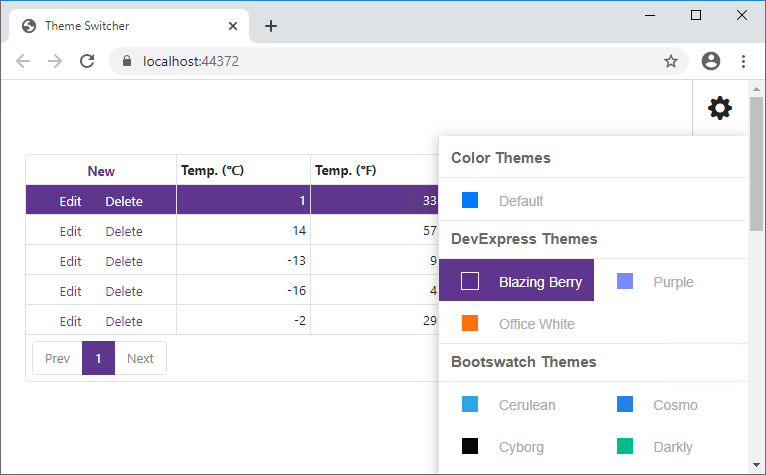
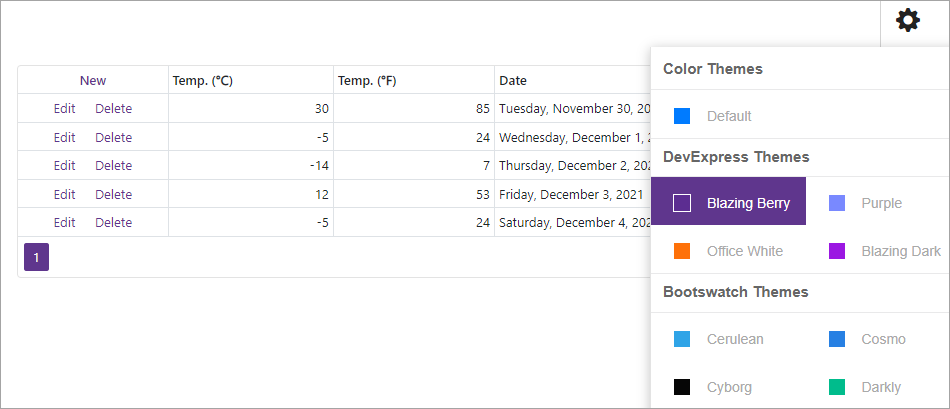
update the description

diff --git a/Readme.md b/Readme.md
@@ -5,31 +5,32 @@
 <!-- default badges end -->
 # How to implement a Theme Switcher in Blazor applications
 
-This example demonstrates how to create a Theme Switcher as in [DevExpress Blazor Demos](https://demos.devexpress.com/blazor/) and apply the selected theme to an application dynamically. The example contains solutions both for Blazor Server and Blazor WebAssembly. Note that these solutions target .NET 5.0.
+This example demonstrates how to create a Theme Switcher as in [DevExpress Blazor Demos](https://demos.devexpress.com/blazor/) and apply the selected theme to an application dynamically. The example contains solutions both for Blazor Server and Blazor WebAssembly. Note that these solutions target .NET 6.0.
 
-This Theme Switcher offers the standard Bootstrap theme, [3 DevExpress Bootstrap themes](https://github.com/DevExpress/bootstrap-themes), and [21 Bootstwatch themes](https://bootswatch.com/). 
+![Blazor - Theme Switcher](images/blazor-theme-switcher.png)
+
+This Theme Switcher offers the standard Bootstrap theme, [4 DevExpress Bootstrap themes](https://github.com/DevExpress/bootstrap-themes), and [21 Bootstwatch themes](https://bootswatch.com/). 
 
 Refer to the [Themes](https://docs.devexpress.com/Blazor/401523/common-concepts/themes#implement-a-theme-switcher) documentation topic for more information.
 
-![](images/blazor-theme-switcher.png)
-
-*Files to look at*:
+<!-- default file list -->
+## Files to look at
 
 **Blazor Server**
-* [ThemeSwitcher.razor](./CS/BlazorServer/BlazorAppThemes/Shared/ThemeSwitcher.razor)
-* [ThemeSwitcher.razor.cs](./CS/BlazorServer/BlazorAppThemes/Shared/ThemeSwitcher.razor.cs)
+* [ThemeSwitcher.razor](./CS/BlazorServer/BlazorAppThemes/Shared/ThemeSwitcherSideView.razor)
+* [ThemeItem.cs](./CS/BlazorServer/BlazorAppThemes/Shared/ThemeItem.cs)
 * [MainLayout.razor](./CS/BlazorServer/BlazorAppThemes/Shared/MainLayout.razor)
 * [Index.razor](./CS/BlazorServer/BlazorAppThemes/Pages/Index.razor)
-* [site.css](./CS/BlazorServer/BlazorAppThemes/wwwroot/css/site.css)
 * [switcher-resources](./CS/BlazorServer/BlazorAppThemes/wwwroot/css/switcher-resources) (folder)
 
 **Blazor WebAssembly**
-* [ThemeSwitcher.razor](./CS/BlazorWebAssembly/BlazorAppThemes/Shared/ThemeSwitcher.razor)
-* [ThemeSwitcher.razor.cs](./CS/BlazorWebAssembly/BlazorAppThemes/Shared/ThemeSwitcher.razor.cs)
+* [ThemeSwitcherSideView.razor](./CS/BlazorWebAssembly/BlazorAppThemes/Shared/ThemeSwitcherSideView.razor)
+* [ThemeItem.cs](./CS/BlazorWebAssembly/BlazorAppThemes/Shared/ThemeItem.cs)
 * [MainLayout.razor](./CS/BlazorWebAssembly/BlazorAppThemes/Shared/MainLayout.razor) 
-* [Index.razor](./CS/BlazorWebAssembly/BlazorAppThemes/Pages/Index.razor) 
-* [site.css](./CS/BlazorWebAssembly/BlazorAppThemes/wwwroot/css/site.css) 
+* [Index.razor](./CS/BlazorWebAssembly/BlazorAppThemes/Pages/Index.razor)  
 * [switcher-resources](./CS/BlazorWebAssembly/BlazorAppThemes/wwwroot/css/switcher-resources) (folder)
+<!-- default file list -->
 
+## Documentation
 
-
+[Themes](https://docs.devexpress.com/Blazor/401523/common-concepts/themes)
